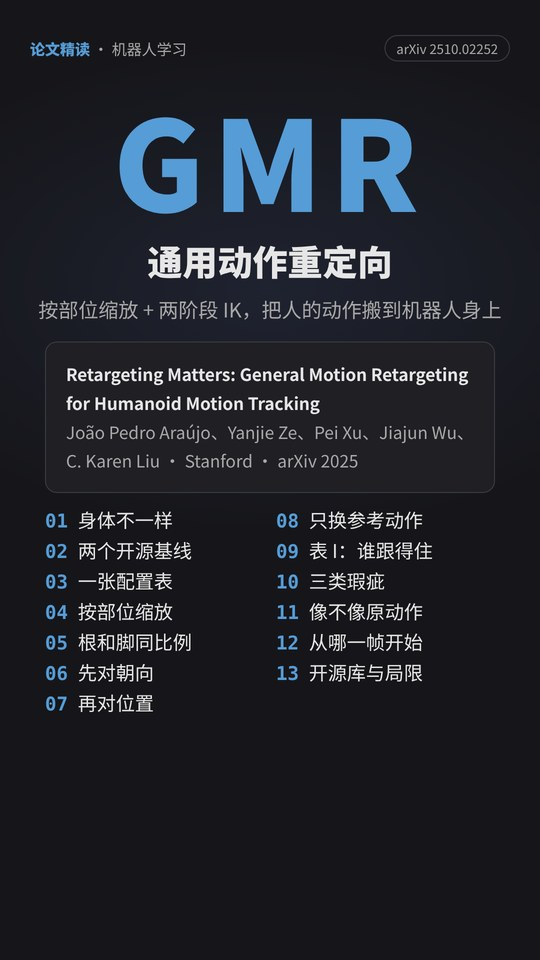
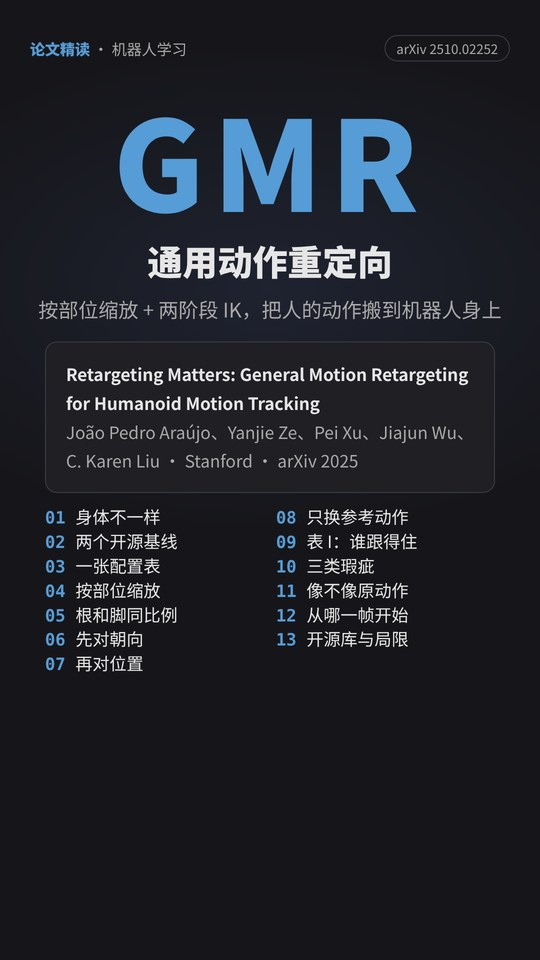
fix(Video): 封面目录按最低一行量字底，离 3:4 裁剪线留 80px
- classicCover() 与 check_layout.mjs 原来只量目录的最后一个元素；两列目录条数为奇数时
  （GMR 十三幕：左列 01–07、右列 08–13）最低的是左列第 7 行，实际字底 1444 已越过裁剪线 1440，
  收紧行距和检查都没触发。改成逐条量、取最低的字底
- 余量从 35px（AMP）放宽到 80px：手机上 35px 看着像压在裁剪线上（看片反馈）；文档同步
- GMR 封面重出：目录 32px / 行距 1.35，最低一行字底 1343；海报同步替换

Claude-Session: https://claude.ai/code/session_01BSQ9dXviCbwZTGZQpfzkGF

Changed region(s): [[0.5037, 0.5312, 0.8, 0.7188], [0.0593, 0.5312, 0.3556, 0.75]]

diff --git a/scripts/paper_video/stage.html b/scripts/paper_video/stage.html
@@ -203,7 +203,8 @@ html, body { width: 1080px; height: 1920px; overflow: hidden; background: var(--
      目录紧跟信息框（40px，行距随条数收紧：≤5 条 1.9、6 条 1.75、7 条 1.55、8 条及以上 1.5 / 38px）。
      每块都在上一块底下留出间距，内容比原设计高就整体往下推，永不重叠；目录最后一行字底超过 COVER_INK_BOTTOM 再压行距、字号。
      片头在视频里另有自己的安全区排版（V.stack），这里只在封面帧上重新排。 */
-  var COVER_INK_BOTTOM = 1405;  // 3:4 置顶裁剪线 1440 往上留 35px（AMP 封面的余量）
+  // 3:4 置顶裁剪线 1440 往上留 80px。原先按 AMP 封面留 35px，手机上看最后一行像压在裁剪线上（2026-10-12 GMR 封面的看片反馈）
+  var COVER_INK_BOTTOM = 1360;
   function classicCover(root) {
     var bigs = root.querySelectorAll('.big'), m = root.querySelector('.meta'), toc = root.querySelector('.toc');
     if (bigs.length < 2 || !m || !toc) return;
@@ -247,8 +248,11 @@ html, body { width: 1080px; height: 1920px; overflow: hidden; background: var(--
     toc.style.lineHeight = rows <= 5 ? '1.9' : rows === 6 ? '1.75' : rows === 7 ? '1.55' : '1.5';
     toc.style.top = (m.offsetTop + m.offsetHeight + 24) + 'px';
     // 视频号「设置封面」按 3:4 置顶裁剪（只留 y 0–1440）：目录最后一行的字底不过 COVER_INK_BOTTOM，
-    // 和 AMP 一样离裁剪线留 35px；放不下先收行距、再缩字号
-    function inkBottom() { range.selectNodeContents(toc.lastElementChild); return range.getBoundingClientRect().bottom; }
+    // 离裁剪线留 80px；放不下先收行距、再缩字号
+    // 两列目录（GMR 十三幕：左列 01–07、右列 08–13）最低的一行不一定是最后一个元素，所以取所有条目里最低的字底
+    function inkBottom() {
+      return Math.max.apply(null, [].map.call(toc.children, function (e) { range.selectNodeContents(e); return range.getBoundingClientRect().bottom; }));
+    }
     for (var lh = parseFloat(toc.style.lineHeight), fs = parseFloat(toc.style.fontSize);
       inkBottom() > COVER_INK_BOTTOM && fs >= 32;) {
       if (lh > 1.35) lh -= 0.05; else fs -= 2;

diff --git a/scripts/paper_video/README.md b/scripts/paper_video/README.md
@@ -60,11 +60,11 @@
 - 英文大标题：250px、字距 16px、主题蓝；名字长到放不下就改 4px 字距、等比缩小到宽 ≤ 980（DeepMimic 约 170px），在 190–440 这一带里垂直居中。
 - 中文名 70px 粗体 + 一句话 40px 灰字，从 470 起，各占一行（过长就缩字号，不折行）。
 - 论文信息框从 680 起（34px，内边距 34 / 40），标题可以折行。
-- 目录紧跟信息框（间距 24），40px；行距随条数收紧：≤5 条 1.9、6 条 1.75、7 条 1.55、8 条及以上 1.5 / 38px；视频号「设置封面」按 **3:4 置顶裁剪**（只留 y 0–1440），所以最后一行目录的字底不过 **1405**（和 AMP 一样离裁剪线 35px），超了先把行距压到 1.35、再缩字号（PHC / ASE / PULSE 6 条为 1.5，7–8 条的会缩到 36 / 32px）。
+- 目录紧跟信息框（间距 24），40px；行距随条数收紧：≤5 条 1.9、6 条 1.75、7 条 1.55、8 条及以上 1.5 / 38px；视频号「设置封面」按 **3:4 置顶裁剪**（只留 y 0–1440），所以最后一行目录的字底不过 **1360**（离裁剪线 80px；原先按 AMP 留 35px，手机上看像压在裁剪线上，2026-10-12 GMR 封面的看片反馈后放宽），超了先把行距压到 1.35、再缩字号（PHC / ASE / PULSE 6 条为 1.5，7–8 条的会缩到 36 / 32px）。
 - 每块都排在上一块底下，内容比原设计高就整体往下推，永不重叠。
 - 目录超过十条时单列放不下（OP3 足球十二幕：字号缩到 32px、行距 1.35 仍会越过 1405）：在 `papers/<paper>.js` 里把 `.toc` 设成两列网格（`display: grid; grid-template-columns: 1fr 1fr`），左列 01–06、右列 07–12，每条目录要短到一列放得下；`classicCover()` 只改字号和行距，不动网格。
 
-生成封面不需要先跑 `build.py`（没有 timeline 时 `render.mjs cover` 自己补一段片头）。生成后必须跑 `node check_layout.mjs <paper> cover`：四块互不重叠、都在画面里、大标题 / 中文名 / 一句话 / 每条目录各占一行、目录字底不过 1405，输出 `no overlap` 才算过。海报由 `cover.png` 缩到 540×960 的 jpg。
+生成封面不需要先跑 `build.py`（没有 timeline 时 `render.mjs cover` 自己补一段片头）。生成后必须跑 `node check_layout.mjs <paper> cover`：四块互不重叠、都在画面里、大标题 / 中文名 / 一句话 / 每条目录各占一行、目录字底不过 1360，输出 `no overlap` 才算过。海报由 `cover.png` 缩到 540×960 的 jpg。
 
 ## 用法
 
